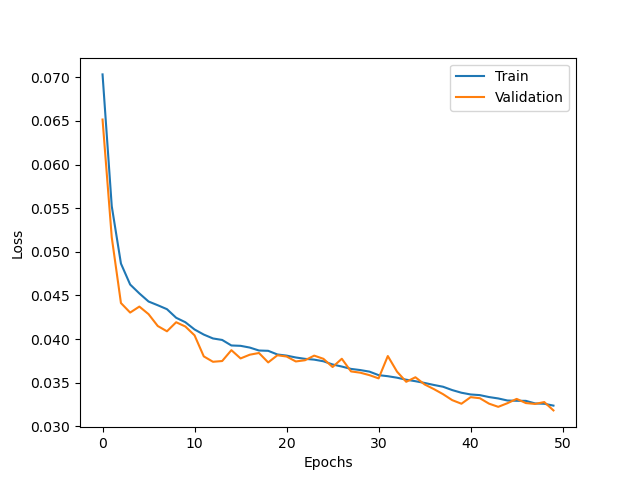
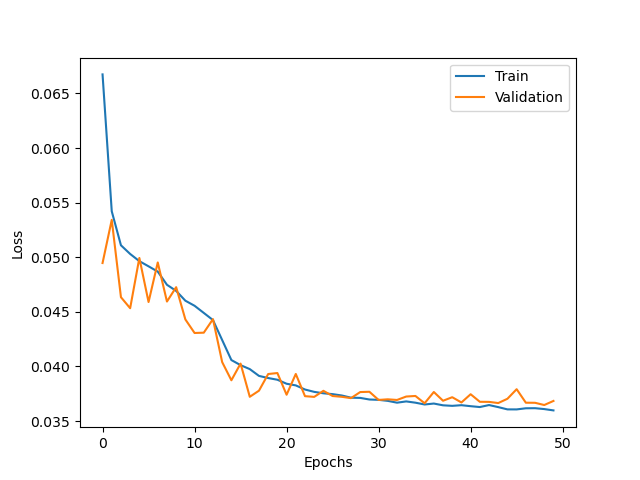
3 LS before activation

diff --git a/modelLib.py b/modelLib.py
@@ -53,8 +53,8 @@ class autoencoder(nn.Module):
         self.down2 = encodeBlock(20,40) # 16x16 > 4x4
         self.down3 = encodeBlock(40,60) # 4x4 > 1x1
         self.lin1 = nn.Linear(60,10)
-        self.lin2 = nn.Linear(10,5)
-        self.lin3 = nn.Linear(5,10)
+        self.lin2 = nn.Linear(10,3)
+        self.lin3 = nn.Linear(3,10)
         self.lin4 = nn.Linear(10,60)
         self.up1 = decodeBlock(60,40) 
         self.up2 = decodeBlock(40,20) 
